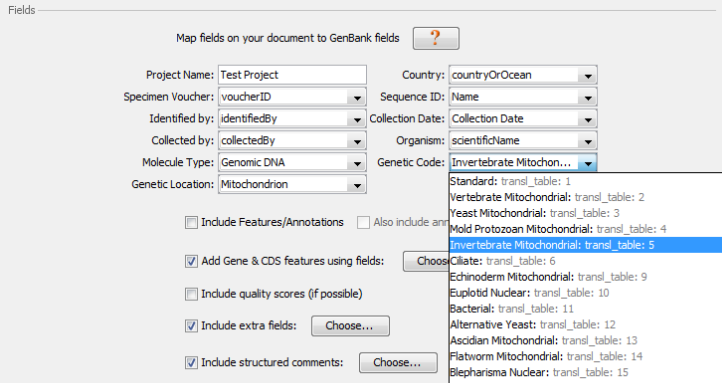
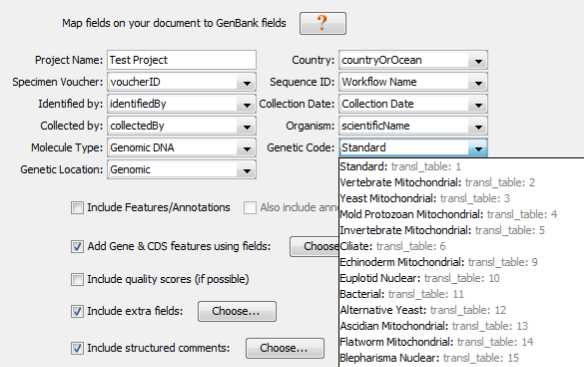
Change Sequence ID to Workflow Name
In the GenBank Upload doc, changed the recommendation to choose the LIMS
field "Workflow Name" for Sequence ID. Will make data tracking a million
times easier in the future.

Changed region(s): [[0.0, 0.03, 1.0, 1.0], [0.1233, 0.7493, 0.524, 0.7793], [0.0, 0.0, 0.0616, 0.0599]]

diff --git a/Docs/gb_upload.rst b/Docs/gb_upload.rst
@@ -91,7 +91,7 @@ Specimen Voucher
   This will become the "specimen_voucher" field in GenBank. It corresponds with the FIMS field "voucherID", which should be a colon-separated triplet comprised of [institutionCode]:[collectionCode]:[catalogNumber].
 
 Sequence ID
-  This field will not be published as part of the GenBank record, but it is very important because this field will connect the specimen data, sequence data, and trace data. Usually the automatically-generated "Name" field from Geneious will work perfectly for this.
+  This field will not be published as part of the GenBank record, but it is very important because this field will connect the specimen data, sequence data, and trace data. Select the LIMS field "Workflow Name" for this.
 
 Identified by
   This will become the "identified_by" field in GenBank. It corresponds with the FIMS field "identifiedBy". It is required for the BWP Data Standard, but if it is unknown you can select *None*.
